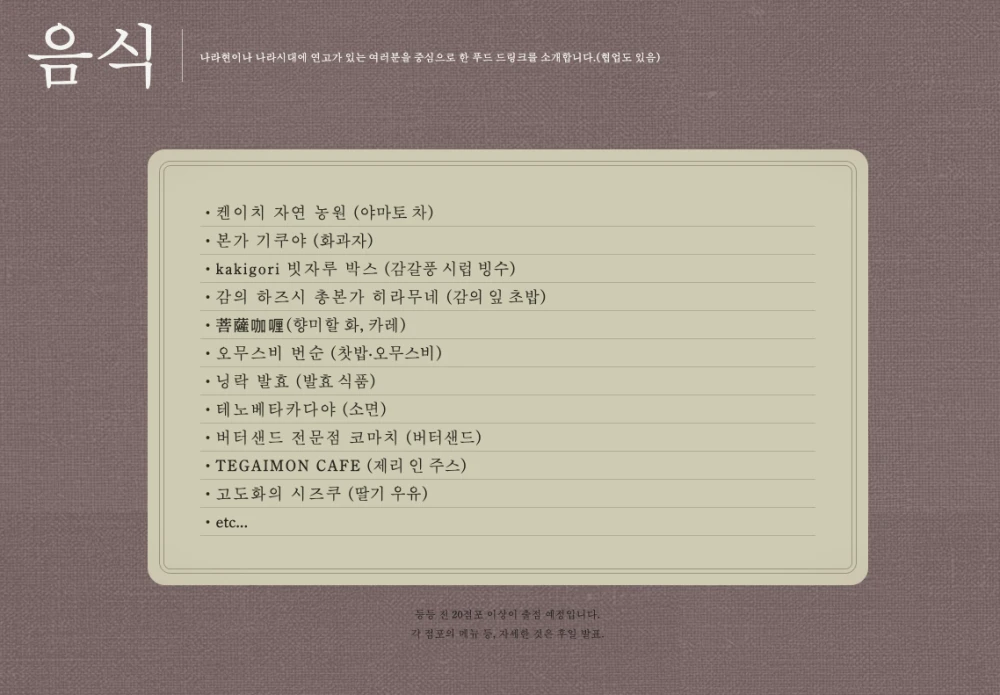
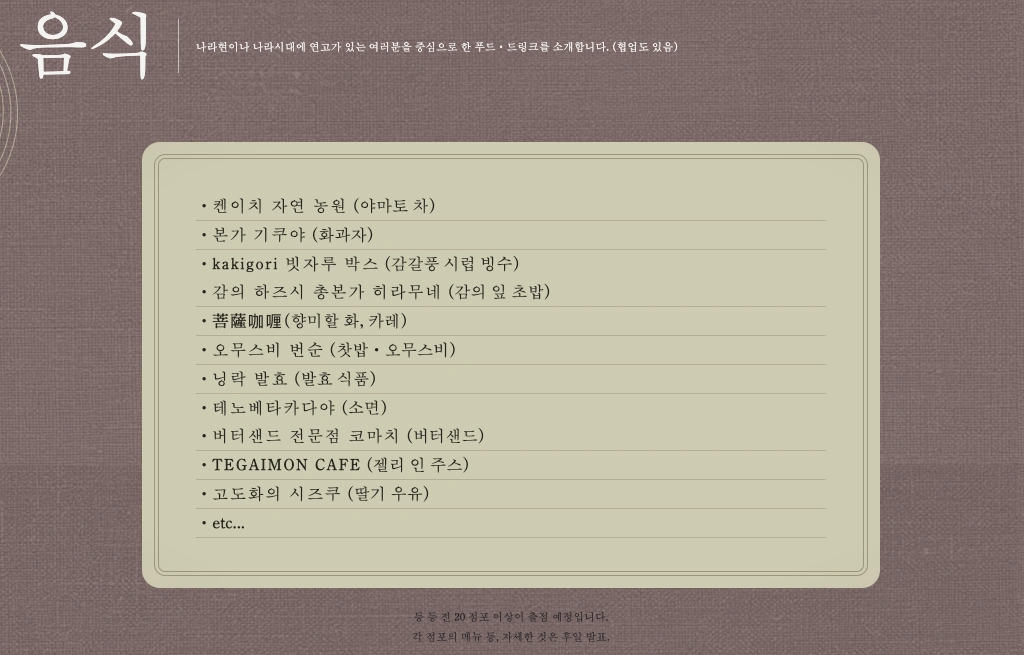
feat: 공연 정보 축제 일정 갱신 및 지도·안내 이미지 교체

diff --git a/src/features/info/components/DetailField.tsx b/src/features/info/components/DetailField.tsx
@@ -24,7 +24,7 @@ export function DetailField({
           className,
         )}
       >
-        <span className="tablet:w-24 shrink-0">{label} :</span>
+        <span className="tablet:min-w-20 shrink-0">{label} :</span>
         {children}
       </div>
     </li>

diff --git a/README.md b/README.md
@@ -49,6 +49,7 @@
 곡 목록 필터에 미공개곡 제외 체크박스 추가
 디스코그래피 곡 개수에서 미공개곡을 분리해 표시
 즛토피아 공연 분류 라벨 정리 (투어·콘서트·공연)
+공연 정보(`/info`) 축제 일정 갱신 및 이미지 교체
 
 ### 26.09.28
 
